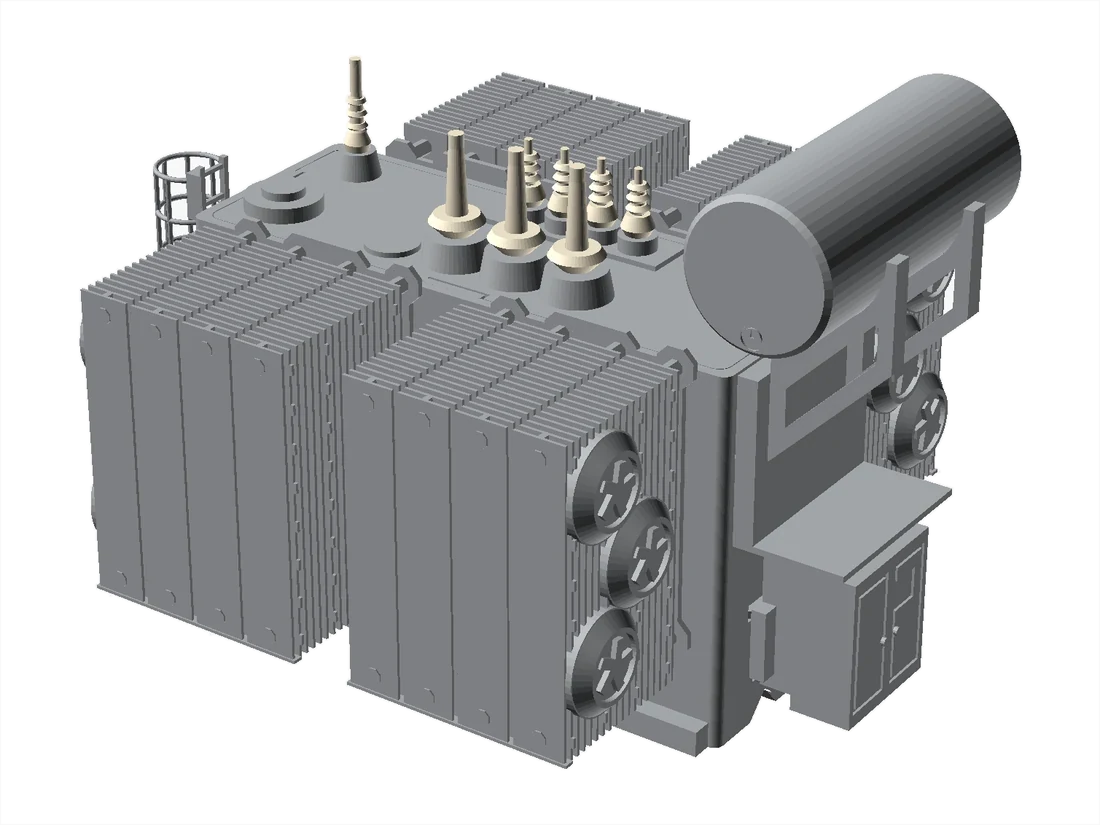
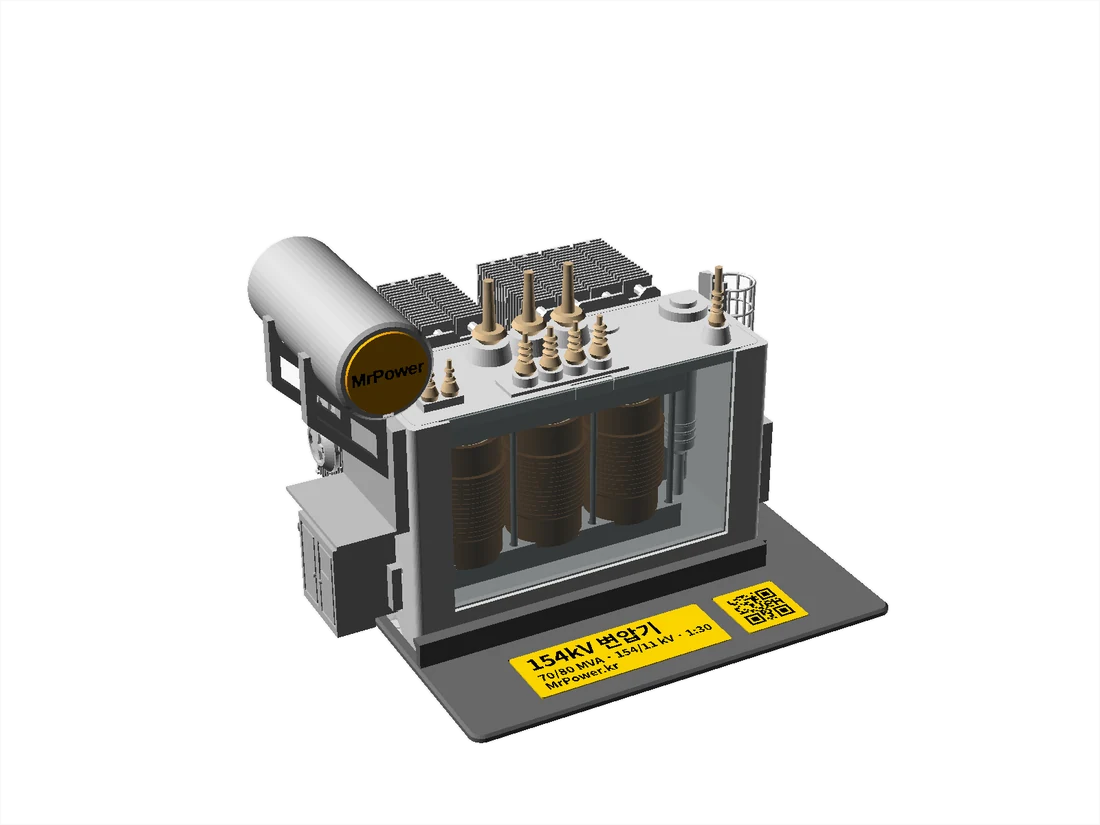
Add files via upload

diff --git a/model/index.html b/model/index.html
@@ -373,6 +373,8 @@
     font-weight:var(--hw);line-height:1.08;}
   .mgrid{display:grid;grid-template-columns:repeat(2,1fr);gap:22px;margin-bottom:34px;}
   @media (max-width:640px){.mgrid{grid-template-columns:1fr;}}
+  /* 한 장짜리 대표 그림 — 한 칸을 통째로 쓴다 */
+  .mgrid.lead{grid-template-columns:1fr;margin-bottom:22px;}
   .mgrid figure{margin:0;border:1px solid var(--rule);background:var(--paper-2);}
   .mgrid figure img{display:block;width:100%;height:auto;}
   .mgrid figcaption{padding:9px 12px;font-size:12.5px;color:var(--ink-3);
@@ -460,22 +462,31 @@
 
 <section class="wrap">
   <div class="shead"><h2>1:30 — 전시 · 소장용</h2>
-    <p class="mono">부싱 셰드와 라디에이터 핀까지 살린 판</p></div>
+    <p class="mono">한쪽 면을 잘라 속을 들여다보게 만든 판</p></div>
+
+  <div class="mgrid lead">
+    <figure>
+      <img src="30-1.webp" width="1100" height="825" loading="lazy" decoding="async"
+           alt="1:30 축소 변압기 모형 — 탱크 한쪽 면을 잘라 3상 권선과 철심이 보이는 모습">
+      <figcaption>탱크 한쪽을 잘라 권선과 철심을 보이게 했습니다</figcaption>
+    </figure>
+  </div>
 
   <div class="mgrid">
     <figure>
-      <img src="30-1.webp" width="1100" height="825" loading="lazy" decoding="async"
-           alt="1:30 축소 변압기 모형 전경">
-      <figcaption>전경</figcaption>
+      <img src="30-2.webp" width="1100" height="825" loading="lazy" decoding="async"
+           alt="1:30 모형 전경 — 받침과 사양 명판">
+      <figcaption>받침의 사양 명판</figcaption>
     </figure>
     <figure>
-      <img src="30-2.webp" width="1100" height="825" loading="lazy" decoding="async"
-           alt="1:30 모형의 부싱 셰드 상세">
-      <figcaption>부싱 셰드 상세</figcaption>
+      <img src="30-3.webp" width="1100" height="825" loading="lazy" decoding="async"
+           alt="1:30 모형 뒷면 — 라디에이터와 냉각 팬">
+      <figcaption>라디에이터와 냉각 팬</figcaption>
     </figure>
   </div>
 
   <p class="lede" style="margin-top:0">축척이 커지는 만큼 셰드 간격과 핀 피치가 살아납니다.
+     받침에 설비 사양을 적은 명판을 넣었습니다.
      사무실 · 전시장에 두는 용도로 만듭니다.</p>
 </section>
 
@@ -487,7 +498,8 @@
       <tr><th>용도</th><td>시험 설명 · 교육</td><td>전시 · 소장</td></tr>
       <tr><th>전체 크기</th><td class="mono">약 150 × 100 × 140 mm</td>
                             <td class="mono">약 250 × 165 × 235 mm</td></tr>
-      <tr><th>형상</th><td>부싱 · 라디에이터 · 탱크</td><td>좌동 · 셰드와 핀 상세</td></tr>
+      <tr><th>형상</th><td>부싱 · 라디에이터 · 탱크</td>
+                        <td>좌동 · 단면 절개 · 받침 명판</td></tr>
     </tbody>
   </table>
   <!-- 재질 · 무게 · 납기 줄은 확정되면 여기에 한 줄씩 더한다.
